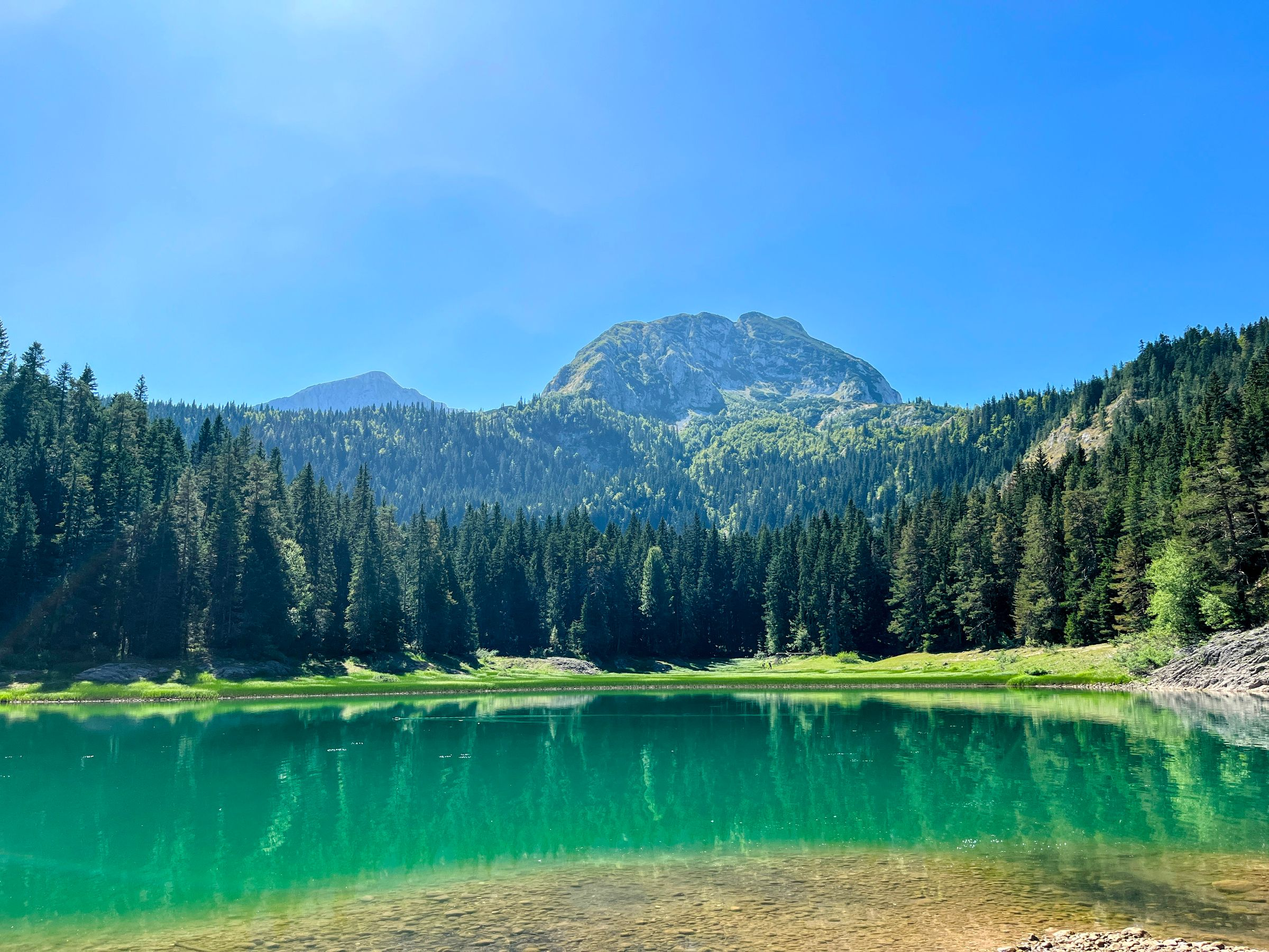
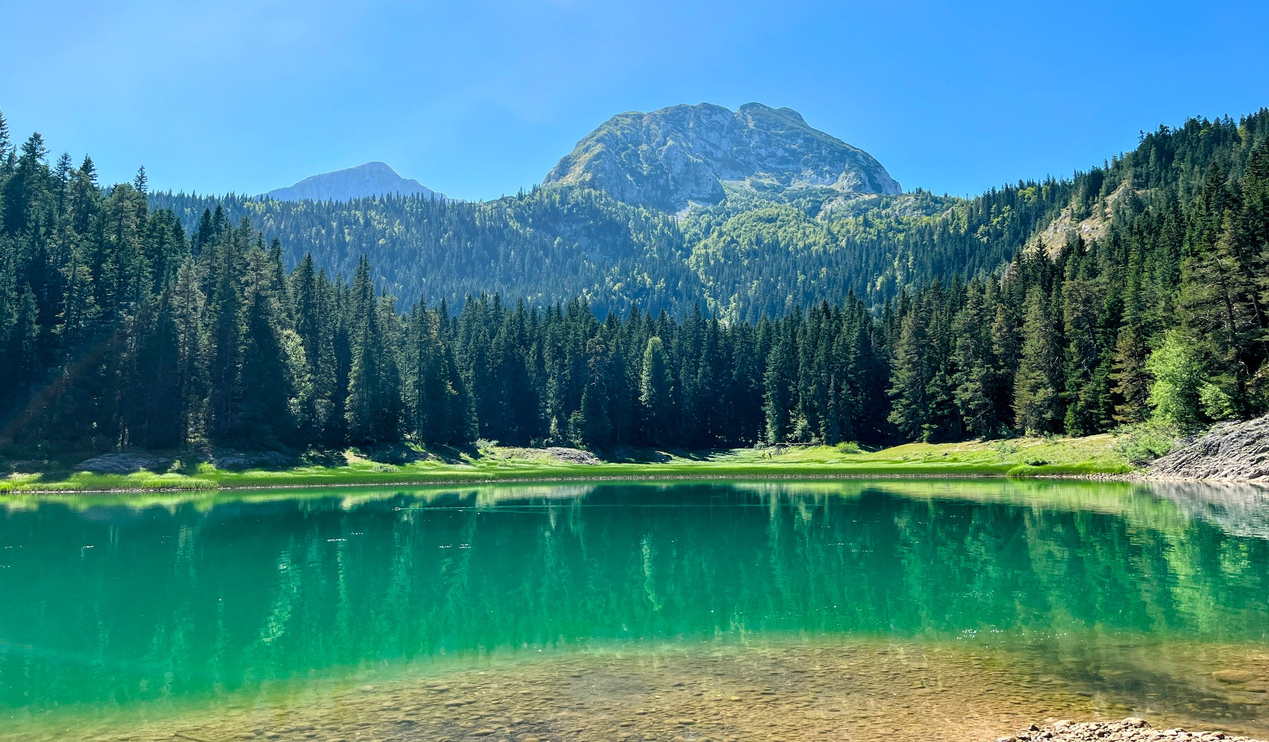
feat: photo recadrée sur le sommet et carte horizontale sur les écrans peu hauts

diff --git a/public/index.html b/public/index.html
@@ -44,10 +44,11 @@
       font-family: system-ui, -apple-system, "Segoe UI", Roboto, "Helvetica Neue", Arial, sans-serif;
       color: var(--texte);
       background-color: #3d8a74;
+      /* Photo recadrée (ciel réduit) et calée en haut : le sommet reste entier sur tous les écrans */
       background-image: url("/images/lac.jpg");
       background-image: image-set(url("/images/lac.webp") type("image/webp"), url("/images/lac.jpg") type("image/jpeg"));
-      background-size: max(100vw, 180vh) auto;
-      background-position: 60% 100%;
+      background-size: cover;
+      background-position: 60% 0;
       background-attachment: fixed;
       display: grid;
       place-items: center;
@@ -148,10 +149,23 @@
       ul { gap: 12px; }
       a { width: 56px; height: 56px; }
     }
-    /* Carte centrée : la photo (4:3) fait au moins 135 % (140 % en portrait) de la hauteur d'écran et est calée en bas,
-       le sommet se retrouve ainsi au-dessus de la carte quel que soit l'écran */
-    @media (orientation: portrait) {
-      body { background-size: auto 140%; }
+    /* Écrans peu hauts (portables) : carte horizontale, deux fois moins haute, pour ne pas masquer le sommet */
+    @media (orientation: landscape) and (max-height: 820px) and (min-width: 600px) {
+      main {
+        width: auto;
+        padding: 28px 44px 28px 34px;
+        display: grid;
+        grid-template-columns: auto 1fr;
+        column-gap: 30px;
+        align-items: center;
+        text-align: left;
+      }
+      .avatar { grid-row: 1 / 4; width: 132px; height: 132px; margin: 0; }
+      h1 { font-size: 2rem; }
+      .lieu::before { margin: 0 0 12px; }
+      ul { justify-content: flex-start; gap: 12px; margin-top: 18px; }
+      a { width: 52px; height: 52px; }
+      svg { width: 22px; height: 22px; }
     }
     @media (hover: none) { body { background-attachment: scroll; } }
     @media (prefers-reduced-motion: reduce) { a { transition: none; } a:hover { transform: none; } }
